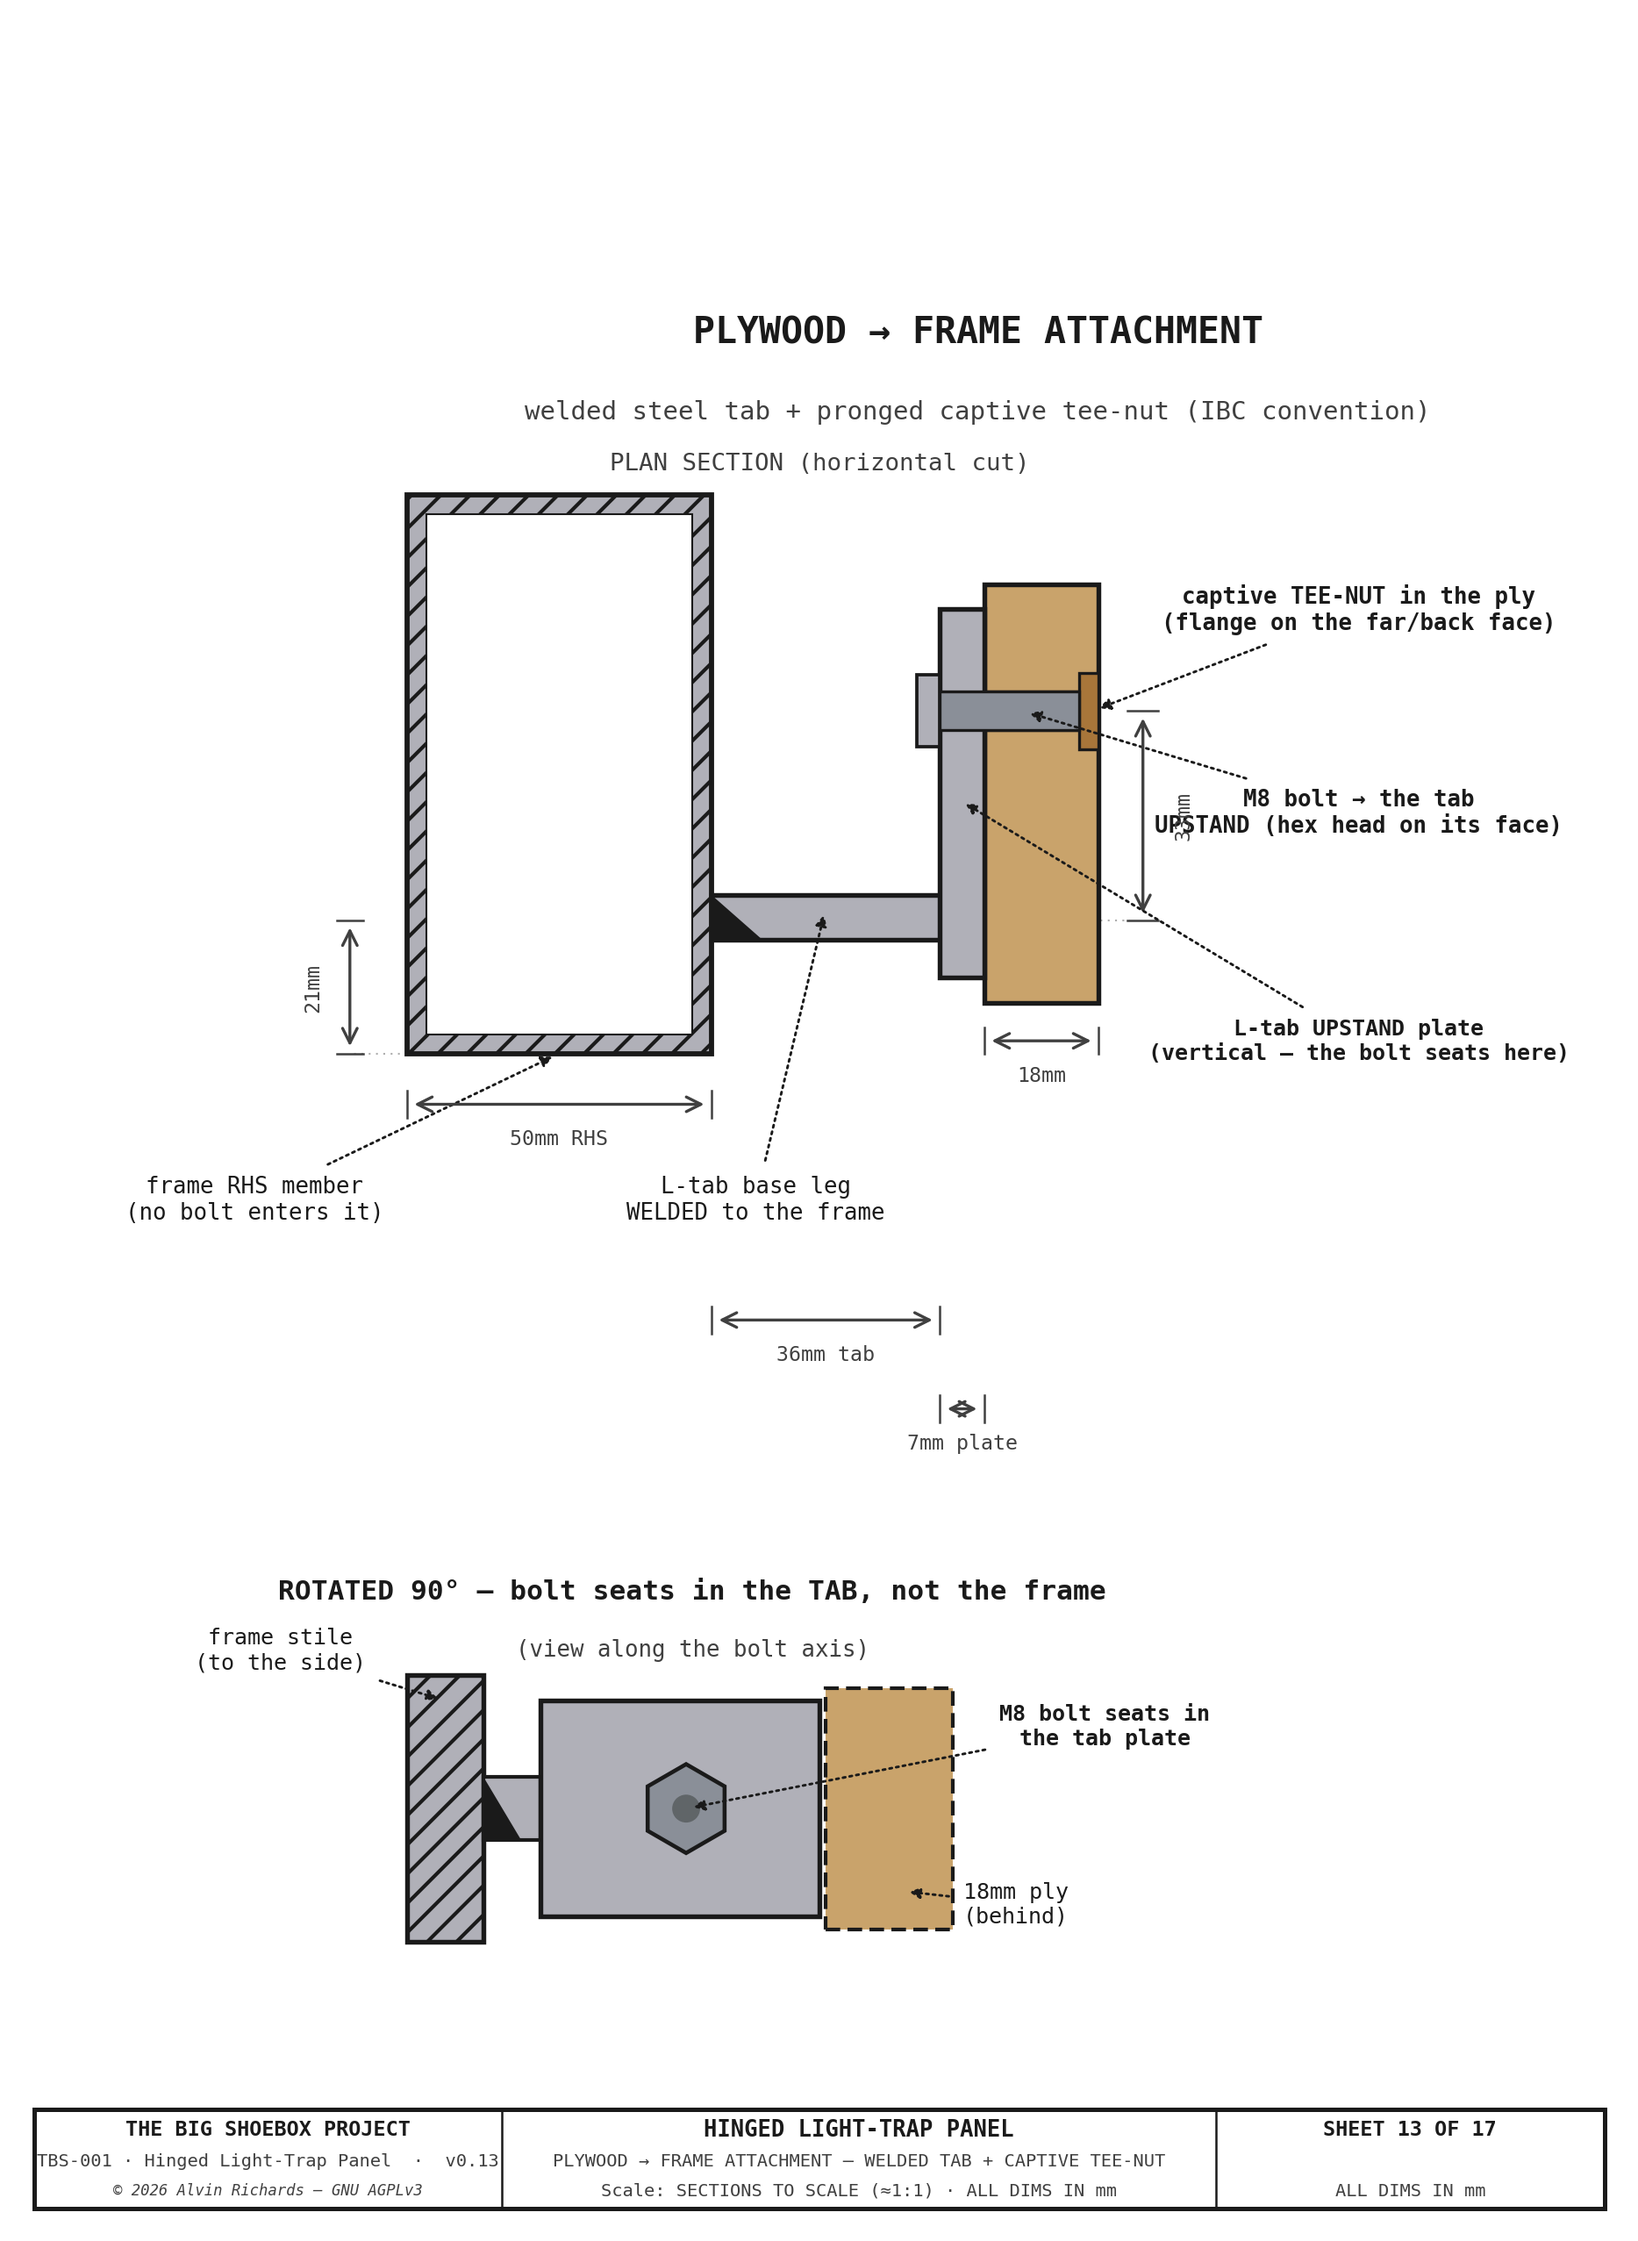
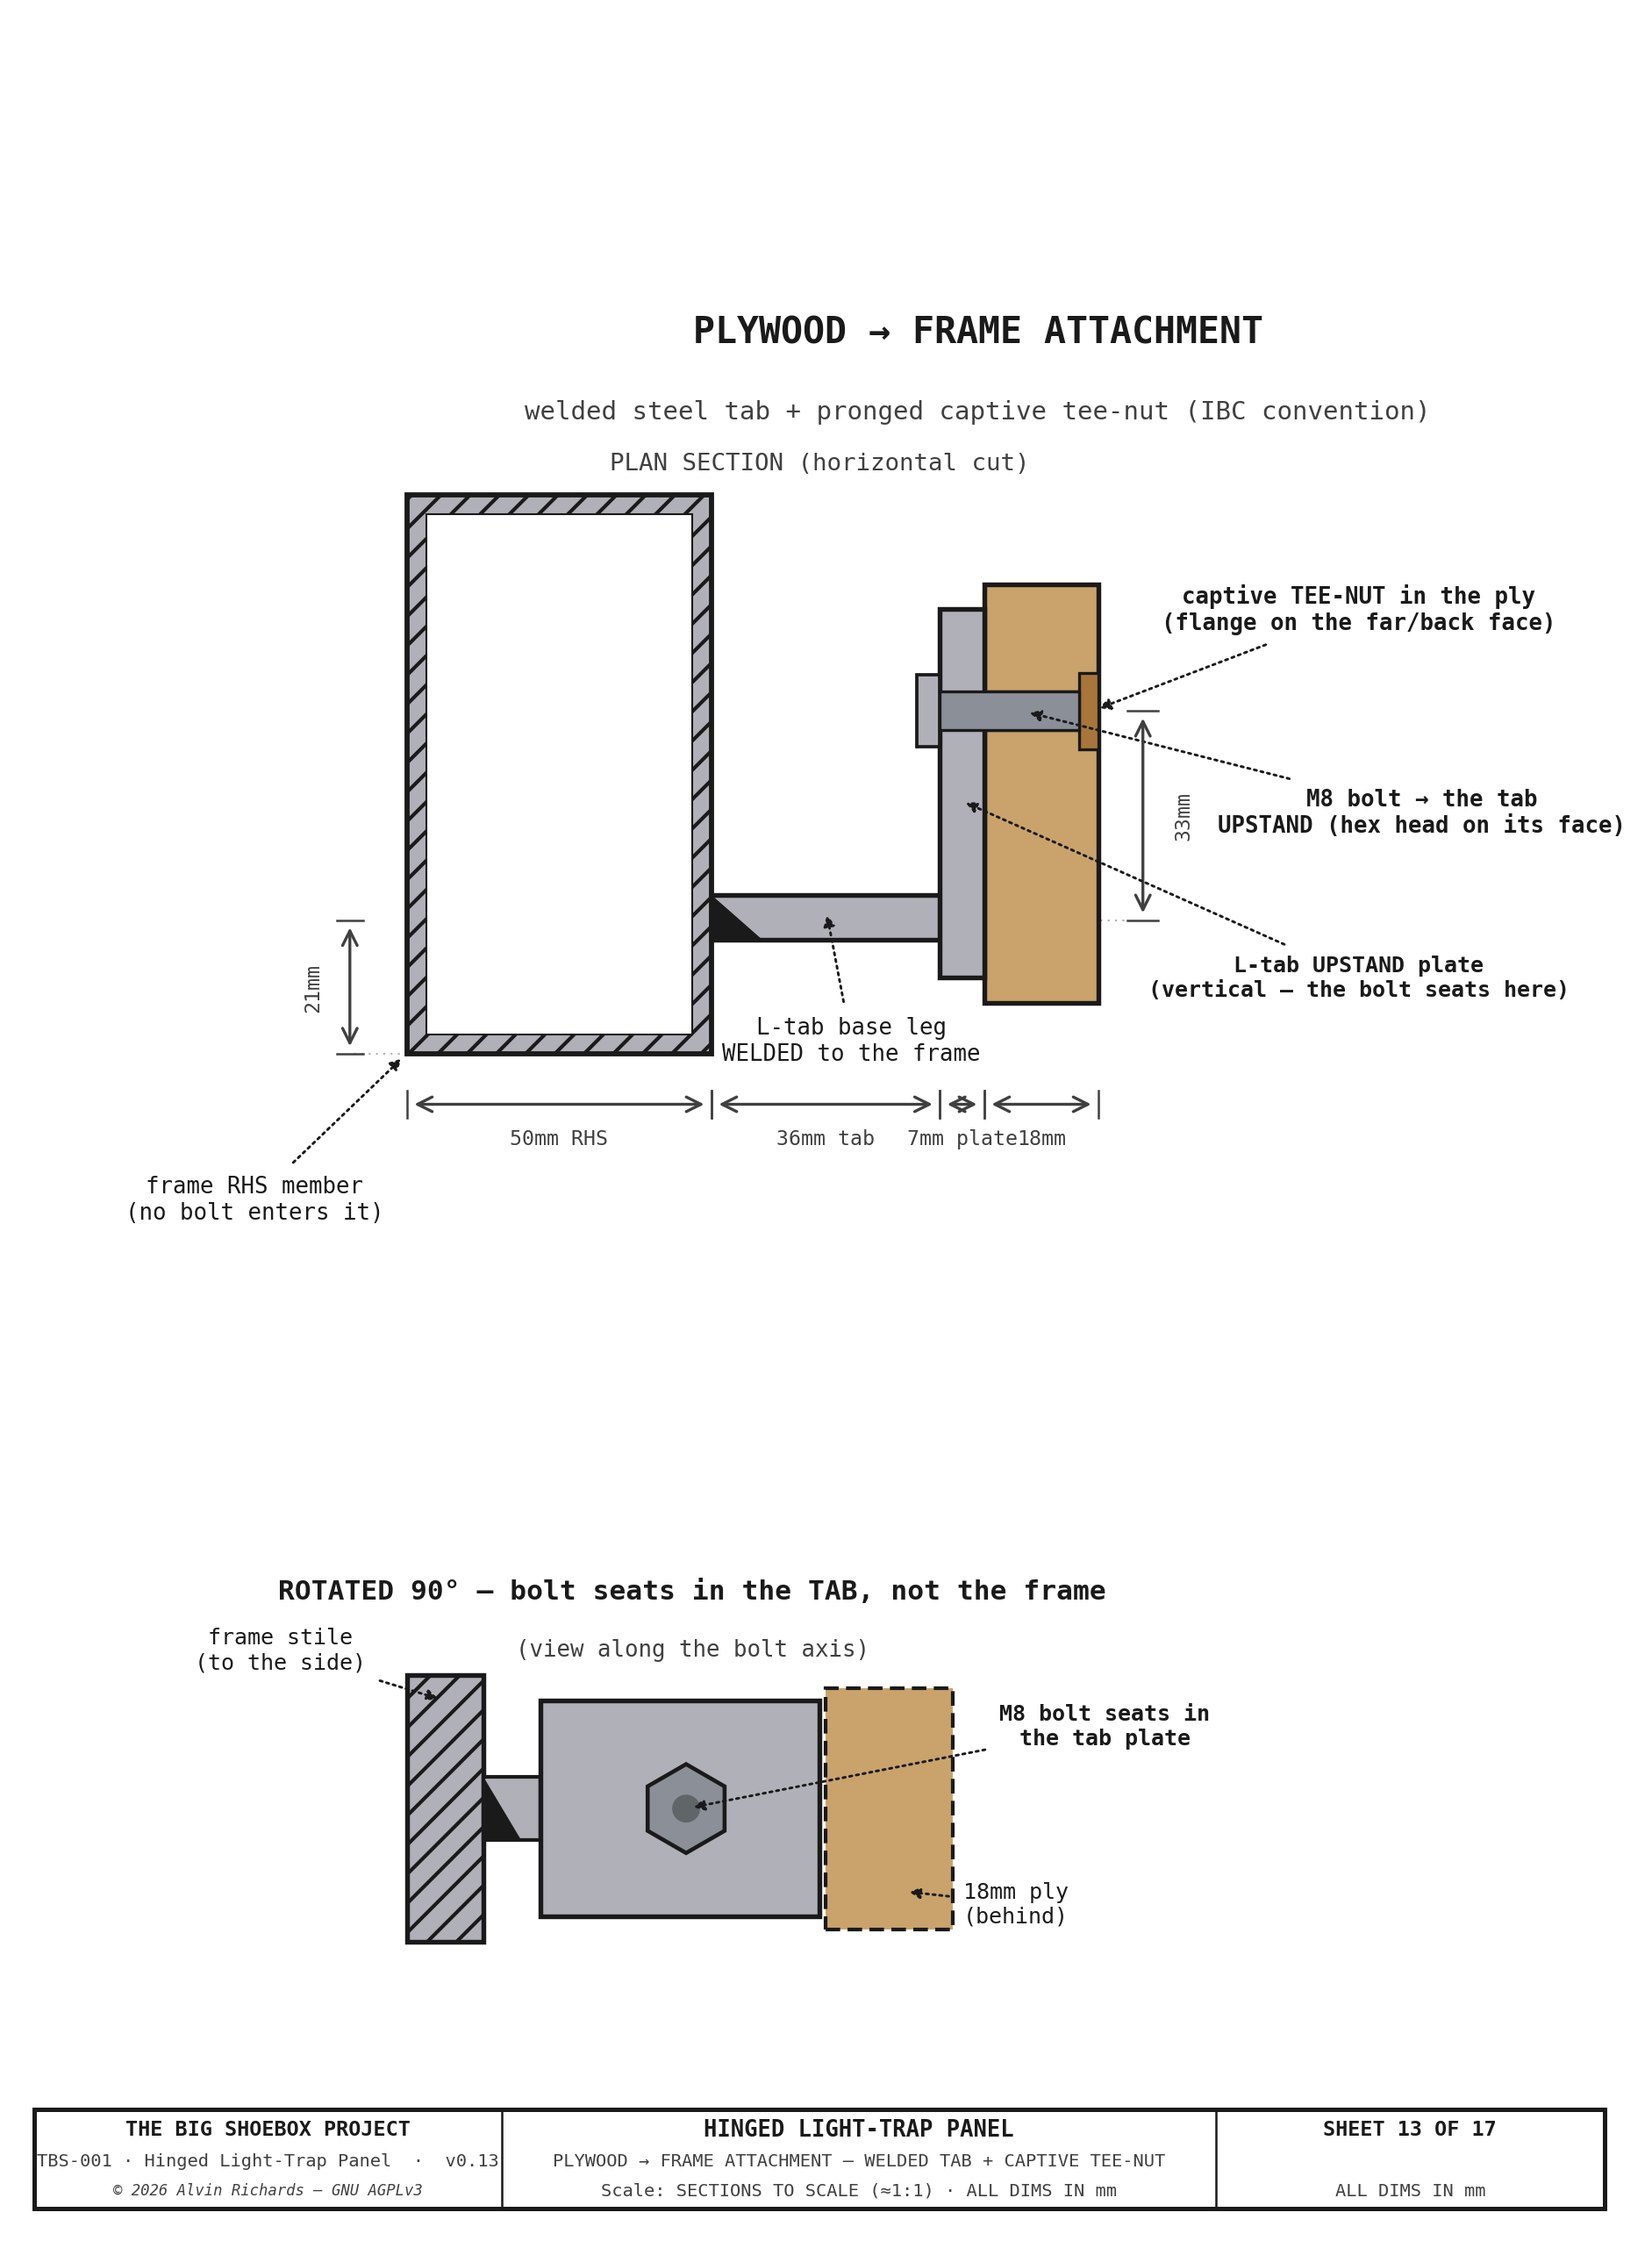
Tidy labels

diff --git a/src/generators/generate_hingepanel_diagram.py b/src/generators/generate_hingepanel_diagram.py
@@ -2334,22 +2334,22 @@ def sheet13():
     _draw_bolt(ax, dB(95, 102)[0], dB(95, 102)[1], 22 * sB, d=6, vertical=False, head=-1, end="tapped", zb=9)
     ax.add_patch(Rectangle(dB(91, 99), 15, 6, fc="#A8763A", ec=C_OUT, lw=0.8, zorder=8))                 # tee-nut barrel (in the ply)
     ax.add_patch(Rectangle(dB(106, 96), 3, 12, fc="#A8763A", ec=C_OUT, lw=0.8, zorder=8))                # tee-nut flange on the ply FAR face
-    leader(ax, dB(24, 48), (bx0 - 24, 65), "frame RHS member\n(no bolt enters it)", col=C_OUT, fs=6.2)
-    leader(ax, dB(66, 71), (bx0 + 55, 65), "L-tab base leg\nWELDED to the frame", col=C_OUT, fs=6.2)
-    leader(ax, dB(97, 102), (bx0 + 150, 126), "M8 bolt → the tab\nUPSTAND (hex head on its face)", col=C_OUT, fw="bold", fs=6.2)
+    leader(ax, dB(0, 48), (bx0 - 24, 65), "frame RHS member\n(no bolt enters it)", col=C_OUT, fs=6.2)
+    leader(ax, dB(66, 71), (bx0 + 70, 90), "L-tab base leg\nWELDED to the frame", col=C_OUT, fs=6.2)
+    leader(ax, dB(97, 102), (bx0 + 160, 126), "M8 bolt → the tab\nUPSTAND (hex head on its face)", col=C_OUT, fw="bold", fs=6.2)
     leader(ax, dB(108, 102), (bx0 + 150, 158), "captive TEE-NUT in the ply\n(flange on the far/back face)", col=C_OUT, fw="bold", fs=6.2)
     # dims (to scale)
-    draw_dim_h(ax, dB(91, 0)[0], dB(109, 0)[0], dB(0, 50)[1], "18mm", offset=-7, above=False, fs=5.6, font=FONT)
+    draw_dim_h(ax, dB(91, 0)[0], dB(109, 0)[0], dB(0, 40)[1], "18mm", offset=-7, above=False, fs=5.6, font=FONT)
     draw_dim_h(ax, dB(0, 0)[0], dB(48, 0)[0], dB(0, 40)[1], "50mm RHS", offset=-7, above=False, fs=5.6, font=FONT)
     # material-CONNECTION dims: the tab base-leg reach (frame weld → upstand) + the upstand-plate thickness
-    draw_dim_h(ax, dB(48, 0)[0], dB(84, 0)[0], dB(0, 6)[1], "36mm tab", offset=-7, above=False, fs=5.6, font=FONT)
-    draw_dim_h(ax, dB(84, 0)[0], dB(91, 0)[0], dB(0, -8)[1], "7mm plate", offset=-7, above=False, fs=5.6, font=FONT)
+    draw_dim_h(ax, dB(48, 0)[0], dB(84, 0)[0], dB(0, 40)[1], "36mm tab", offset=-7, above=False, fs=5.6, font=FONT)
+    draw_dim_h(ax, dB(84, 0)[0], dB(91, 0)[0], dB(0, 40)[1], "7mm plate", offset=-7, above=False, fs=5.6, font=FONT)
     draw_dim_v(ax, dB(116, 0)[0], dB(0, 69)[1], dB(0, 102)[1], "33mm", offset=8, fs=5.6, font=FONT, right=True)
     ax.plot([dB(84, 69)[0], dB(114, 69)[0]], [dB(0, 69)[1], dB(0, 69)[1]], color="#AEAEAE", lw=0.5, ls=(0, (1, 3)), zorder=2)   # witness — weld base leg
     # locate the L-tab base leg on the RHS face (dim_v from the RHS edge) + label the upstand plate
     draw_dim_v(ax, dB(-9, 0)[0], dB(0, 48)[1], dB(0, 69)[1], "21mm", offset=7, fs=5.6, font=FONT, right=False)
     ax.plot([dB(0, 48)[0], dB(-9, 48)[0]], [dB(0, 48)[1], dB(0, 48)[1]], color="#AEAEAE", lw=0.5, ls=(0, (1, 3)), zorder=2)
-    leader(ax, dB(87, 88), (bx0 + 150, 90), "L-tab UPSTAND plate\n(vertical — the bolt seats here)", col=C_OUT, fw="bold", fs=6.0)
+    leader(ax, dB(87, 88), (bx0 + 150, 100), "L-tab UPSTAND plate\n(vertical — the bolt seats here)", col=C_OUT, fw="bold", fs=6.0)
 
     # ── COMPANION: rotated 90° view (looking along the bolt axis) — the bolt seats in the tab plate;
     #    the frame stile is off to the side, so the bolt does NOT pass through the frame. ──
